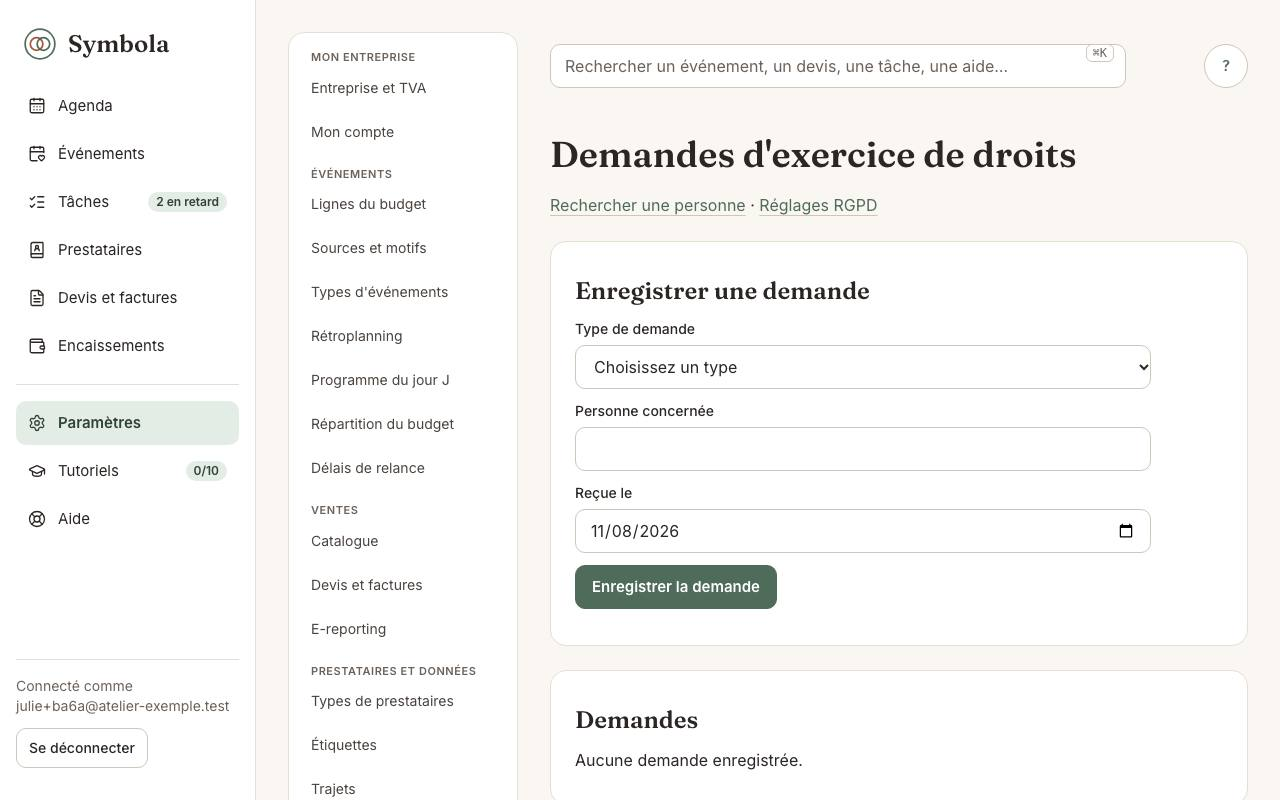
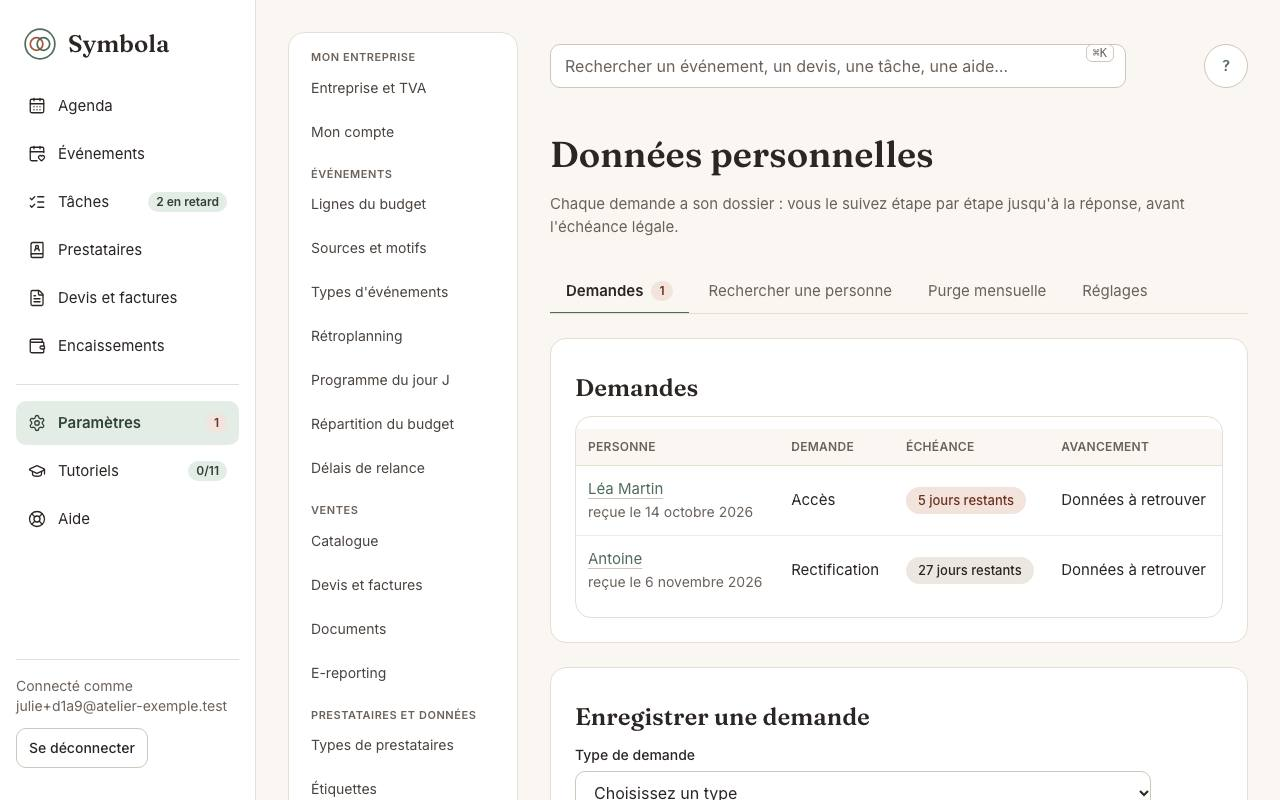
docs(aide): lot 18 captures des écrans RGPD (onglets, liste des demandes, recherche)
- Script de captures : assistant en 7 étapes, deux demandes fictives
  (dont une en alerte) pour montrer la liste et le compteur.

diff --git a/apps/symbola/captures/help.captures.ts b/apps/symbola/captures/help.captures.ts
@@ -24,6 +24,7 @@ import {
 import { addQuoteLine, addScheduleItem, createCatalogItem, createQuote, sendQuote } from "../modules/quotes/service";
 import { createAllocationModel, simulateEventBudget } from "../modules/budget/service";
 import { createVendor, listVendorTypes } from "../modules/vendors/service";
+import { createPrivacyRequest } from "../modules/hub/service";
 import { HELP_SCREENS } from "../lib/help/screens";
 
 const OUT = join(__dirname, "..", "public", "aide", "captures") + "/";
@@ -47,7 +48,8 @@ async function runSetup(page: Page) {
   await page.goto("/events");
   await expect(page).toHaveURL(/\/demarrage/);
   await page.getByRole("radio", { name: /Wedding planner/ }).check();
-  for (const step of [2, 3, 4, 5, 6]) {
+  // Lot 18 (AIDE-13) : 7 étapes, la 4ᵉ « Vos documents » (facultative) validée telle quelle.
+  for (const step of [2, 3, 4, 5, 6, 7]) {
     if (step === 3) await page.getByLabel("Forme juridique").selectOption("sas");
     if (step === 4) await page.getByRole("radio", { name: /Franchise en base/ }).check();
     await page.getByRole("button", { name: "Valider et continuer" }).click();
@@ -147,6 +149,16 @@ test("captures des écrans pour le centre d'aide", async ({ page }) => {
   await login(page, email, password);
   await runSetup(page);
   const { confirmed, quoteId } = await seed(organizationId, userId);
+  // Lot 18 (RGPD-07) : deux demandes fictives, dont une en alerte, pour que la
+  // liste des demandes et le compteur du menu aient quelque chose à montrer.
+  const daysAgo = (days: number) => new Date(Date.now() - days * 86_400_000).toISOString().slice(0, 10);
+  const privacy = createAppConnection();
+  try {
+    await createPrivacyRequest(privacy.db, { organizationId, userId, type: "access", personLabel: "Léa Martin", receivedOn: daysAgo(26) });
+    await createPrivacyRequest(privacy.db, { organizationId, userId, type: "rectification", personLabel: "Antoine", receivedOn: daysAgo(3) });
+  } finally {
+    await privacy.sql.end();
+  }
 
   const dynamic: Record<string, string> = {
     eventsDetail: `/events/${confirmed}`,
